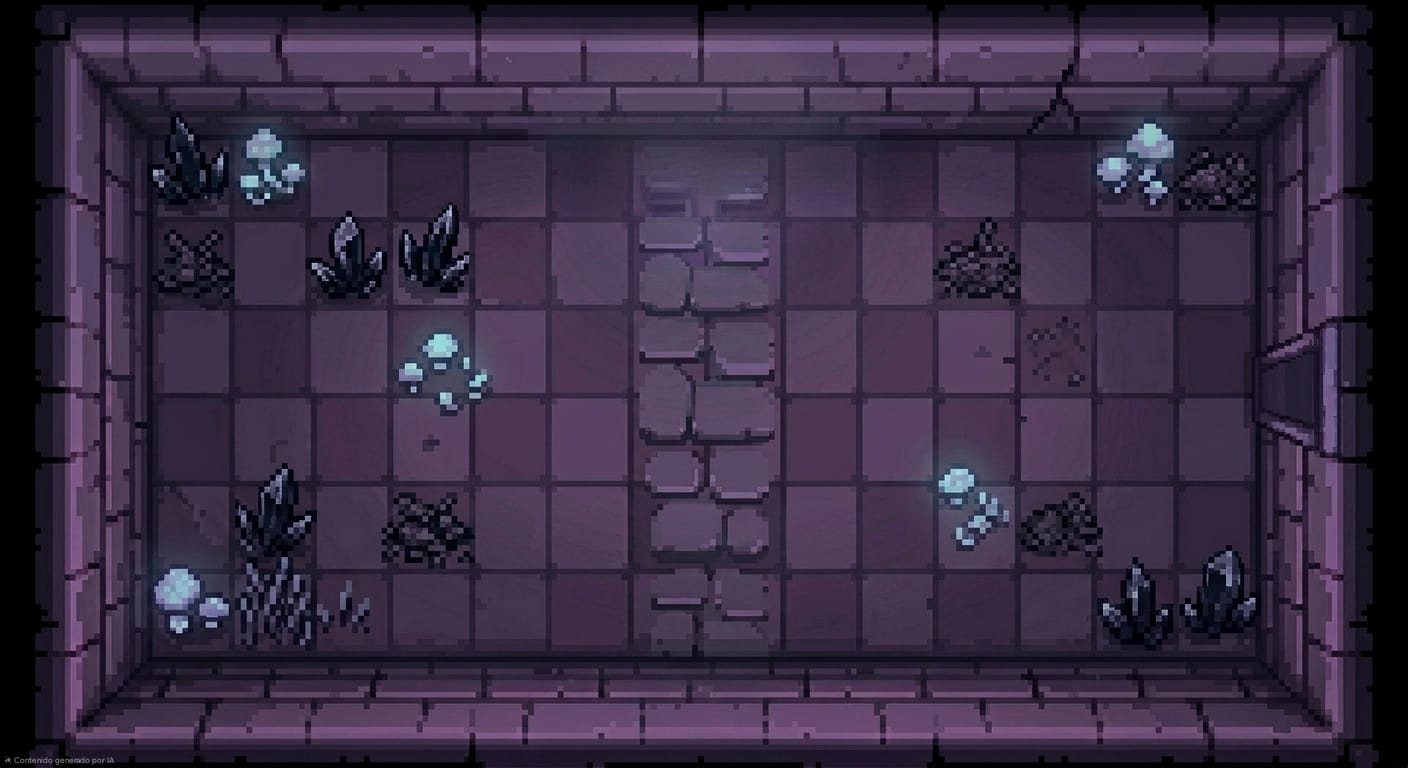
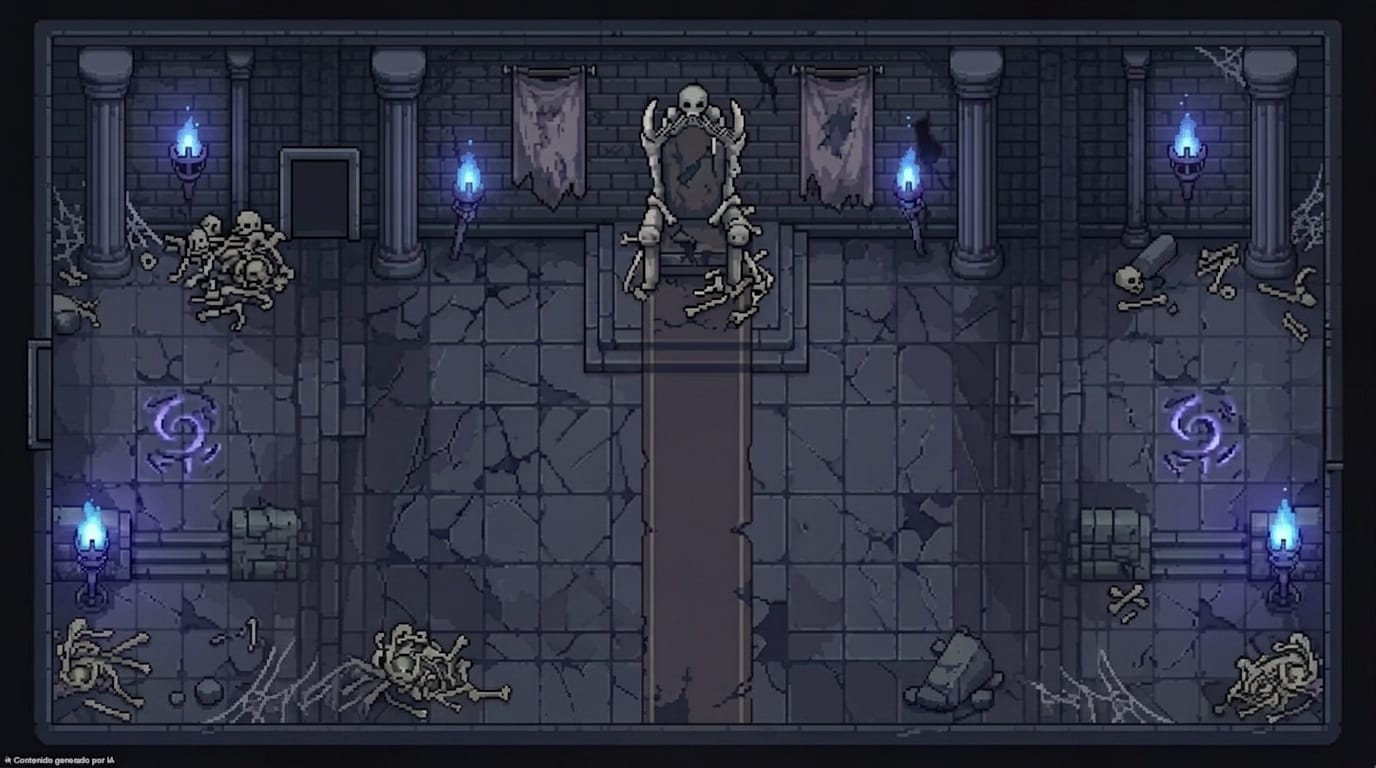
Corregir imagenes de salas y llave

diff --git a/src/main.cpp b/src/main.cpp
@@ -79,7 +79,9 @@ class Juego {
 private:
     sf::RenderWindow ventana;
     sf::Texture texturaCorazon;
+    sf::Texture texturaLlave;
     bool hayTexturaCorazon;
+    bool hayTexturaLlave;
     std::unique_ptr<Jugador> isaac;
     std::deque<ProyectilJugador> proyectilesJugador;
     std::vector<Lagrima> lagrimasEnemigas;
@@ -428,6 +430,7 @@ private:
         salas[SALA_D].mapaFila = 1;
         salas[SALA_D].colorMapa = sf::Color(190, 55, 55);
         salas[SALA_D].izquierda = SALA_C;
+        salas[SALA_D].abajo = SALA_H;
 
         // H = room_checker
         salas[SALA_H].nombre = "H - Sala tablero";
@@ -436,6 +439,7 @@ private:
         salas[SALA_H].mapaFila = 2;
         salas[SALA_H].colorMapa = sf::Color(170, 170, 170);
         salas[SALA_H].izquierda = SALA_F;
+        salas[SALA_H].arriba = SALA_D;
         salas[SALA_H].abajo = SALA_I;
 
         // I = room_boss. Requiere llave.
@@ -770,6 +774,17 @@ private:
             return;
         }
 
+        if (hayTexturaLlave) {
+            sf::Sprite llave(texturaLlave);
+            auto tam = texturaLlave.getSize();
+            llave.setOrigin({static_cast<float>(tam.x) / 2.0f,
+                             static_cast<float>(tam.y) / 2.0f});
+            llave.setPosition(posicionLlave);
+            llave.setScale({0.18f, 0.18f});
+            ventana.draw(llave);
+            return;
+        }
+
         sf::CircleShape cabeza(8.0f);
         cabeza.setOrigin({8.0f, 8.0f});
         cabeza.setPosition(posicionLlave);
@@ -809,6 +824,17 @@ private:
 
     void dibujarIndicadorLlaveHUD() {
         if (!llaveObtenida) {
+            return;
+        }
+
+        if (hayTexturaLlave) {
+            sf::Sprite llave(texturaLlave);
+            auto tam = texturaLlave.getSize();
+            llave.setOrigin({static_cast<float>(tam.x) / 2.0f,
+                             static_cast<float>(tam.y) / 2.0f});
+            llave.setPosition({55.0f, 56.0f});
+            llave.setScale({0.07f, 0.07f});
+            ventana.draw(llave);
             return;
         }
 
@@ -999,6 +1025,7 @@ public:
     Juego()
         : ventana(sf::VideoMode({800, 600}), "Aventuras en el Edificio de Software"),
           hayTexturaCorazon(false),
+          hayTexturaLlave(false),
           salaActual(SALA_A),
           bloqueoCambioSala(false),
           puertaSecretaDesbloqueada(false),
@@ -1017,6 +1044,10 @@ public:
 
         hayTexturaCorazon = texturaCorazon.loadFromFile(
             "assets/images/heart_pixel_art_32x32.png"
+        );
+
+        hayTexturaLlave = texturaLlave.loadFromFile(
+            "assets/images/key_pixel.png"
         );
 
         configurarSalas();